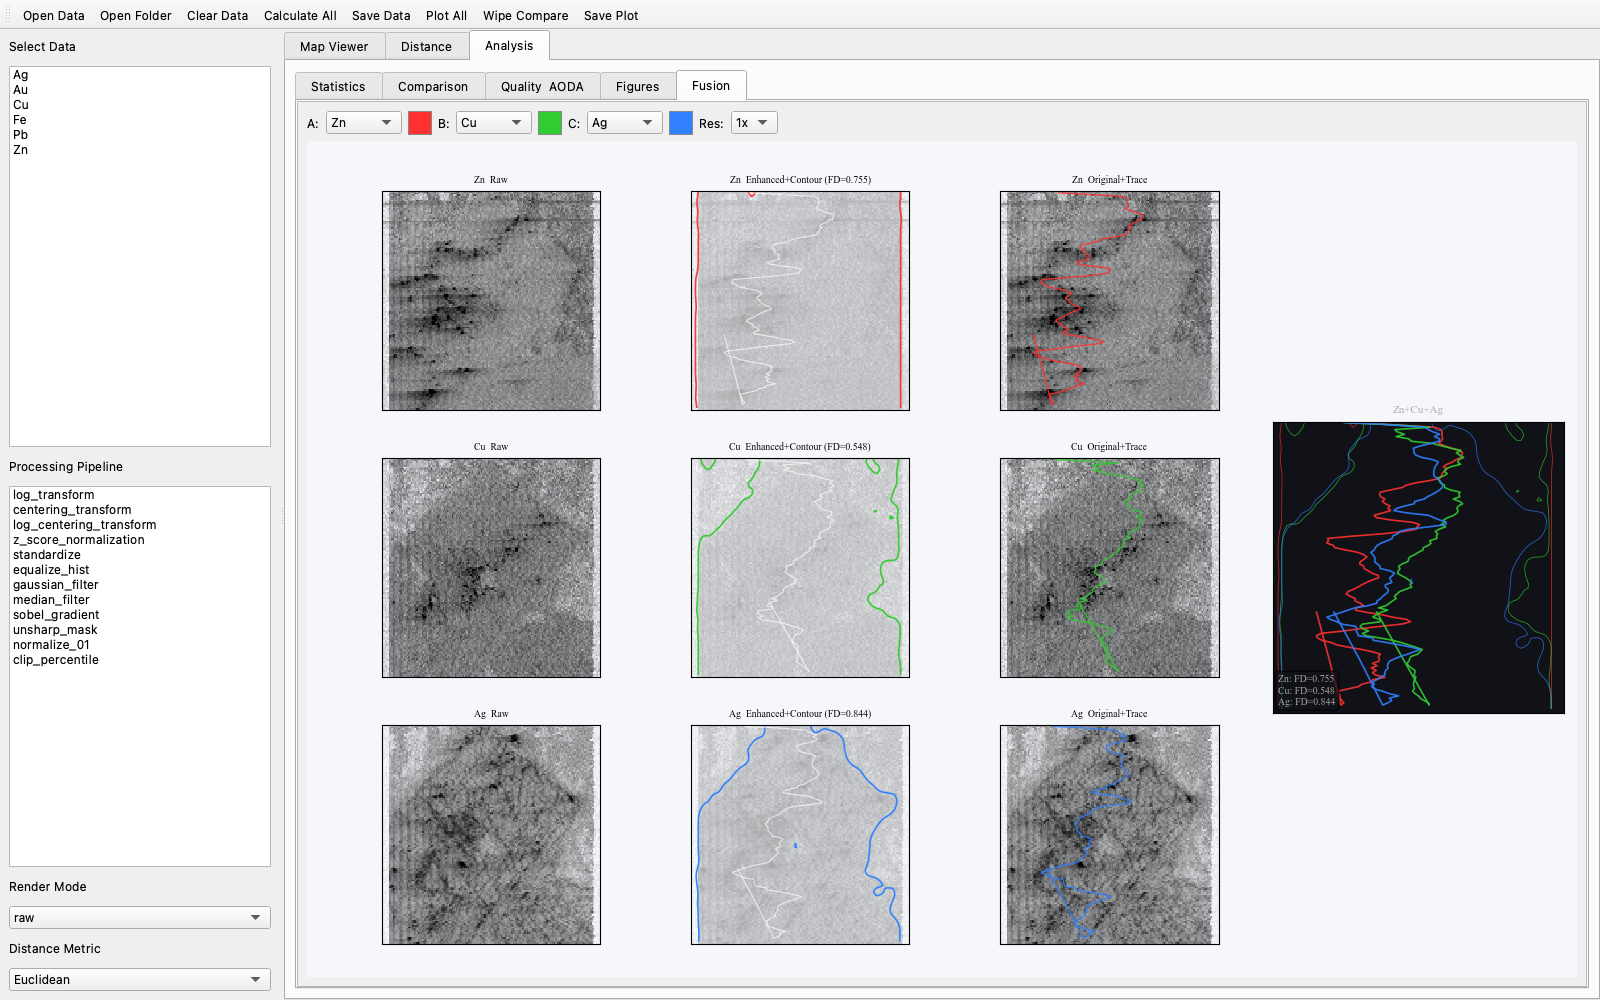
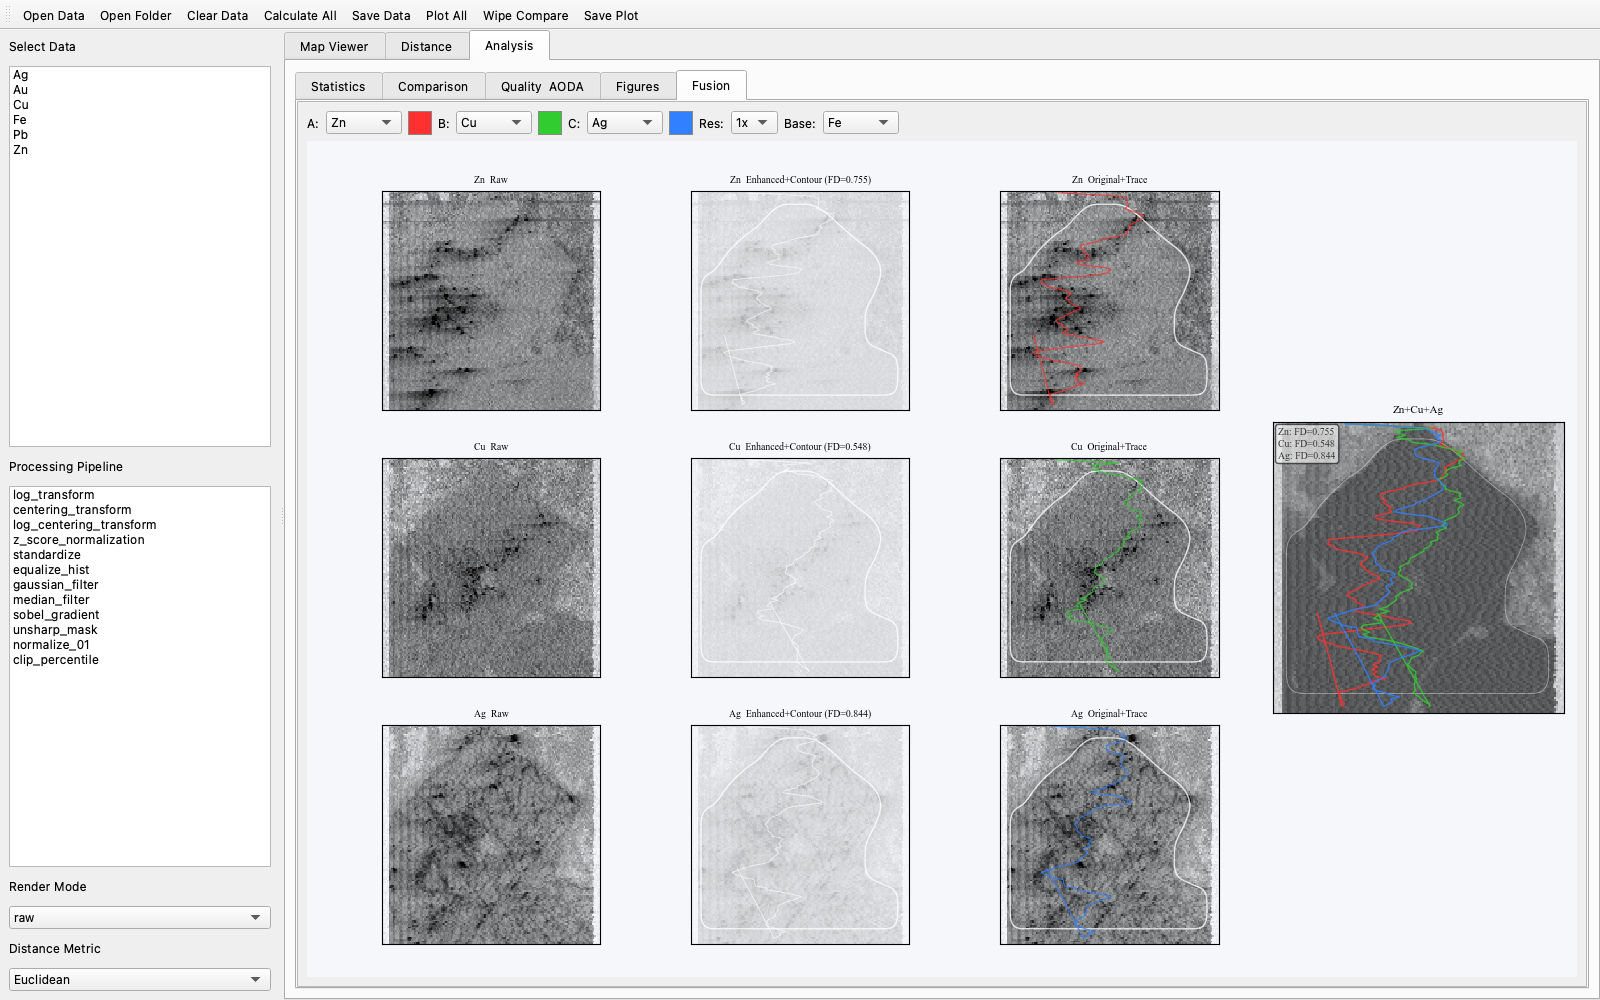
v1.7.2: Overlay uses base element (Fe) as bg + cleaner Fe contour via morphology
- Base dropdown picks overlay background (default Fe)
- Fe contour: heavy smoothing + morphological cleanup + largest component
- White Fe contour + colored traces on base element grayscale bg
- FD comparison label on light bg (readable)

diff --git a/cpsvisualizer/src/cpsvisualizer/app.py b/cpsvisualizer/src/cpsvisualizer/app.py
@@ -700,7 +700,12 @@ class CPSVisualizer(QMainWindow):
         bar.addWidget(QLabel('Res:'))
         self._fus_res=QComboBox(); self._fus_res.addItems(['1x','2x','4x'])
         self._fus_res.currentTextChanged.connect(self._on_fusion_change)
-        bar.addWidget(self._fus_res); bar.addStretch(1)
+        bar.addWidget(self._fus_res)
+        bar.addWidget(QLabel('Base:'))
+        self._fus_base = QComboBox()
+        self._fus_base.currentTextChanged.connect(self._on_fusion_change)
+        bar.addWidget(self._fus_base)
+        bar.addStretch(1)
         v.addLayout(bar)
         self._fus_canvas = FigureCanvas(Figure(figsize=(20,15), dpi=self.dpi))
         _install_figure_export(self._fus_canvas,'cps_fusion')
@@ -725,6 +730,13 @@ class CPSVisualizer(QMainWindow):
             p.blockSignals(False)
         if len(self.df_name_list)>=2 and not self._fus_picks[1].currentText():
             self._fus_picks[1].setCurrentIndex(1)
+        # fill base picker, default to Fe
+        cur_base = self._fus_base.currentText()
+        self._fus_base.blockSignals(True); self._fus_base.clear()
+        self._fus_base.addItems(self.df_name_list)
+        if cur_base in self.df_name_list: self._fus_base.setCurrentText(cur_base)
+        elif 'Fe' in self.df_name_list: self._fus_base.setCurrentText('Fe')
+        self._fus_base.blockSignals(False)
     def _render_fusion(self):
         from cpsvisualizer.core import log_transform
         from scipy.ndimage import sobel,gaussian_filter,zoom
@@ -734,6 +746,53 @@ class CPSVisualizer(QMainWindow):
         for btn in self._fus_color_btns:
             m=re.search(r'#[0-9a-fA-F]{6}',btn.styleSheet())
             self._fus_colors.append(m.group() if m else '#FF3030')
+        # Fe reference contour (clean pyrite crystal boundary)
+        self._fe_contours = []
+        if 'Fe' in self.df_name_list:
+            fe_data = self.df_list[self.df_name_list.index('Fe')].to_numpy().copy()
+            fe_raw = np.nan_to_num(fe_data.astype(float), nan=0, posinf=0, neginf=0)
+            from scipy.ndimage import gaussian_filter as gf
+            from scipy.ndimage import binary_fill_holes, binary_closing, binary_opening
+            from skimage.filters import threshold_otsu
+            from skimage.measure import find_contours, label
+            # heavy smoothing to remove internal texture, keep only boundary
+            fe_sm = gf(fe_raw, sigma=6.0)
+            ds = _downsample(fe_sm, 80, 80)
+            thresh = threshold_otsu(ds)
+            binary = (ds > thresh)
+            # morphological cleanup: close gaps, fill holes
+            binary = binary_closing(binary, structure=np.ones((5, 5)), iterations=2)
+            binary = binary_opening(binary, structure=np.ones((5, 5)), iterations=1)
+            binary = binary_fill_holes(binary)
+            # keep only the largest connected component
+            labeled = label(binary)
+            n = labeled.max()
+            if n > 0:
+                sizes = np.bincount(labeled.ravel())[1:]
+                largest = np.argmax(sizes) + 1
+                binary = (labeled == largest)
+            # smooth the binary once more before contouring
+            binary_f = gf(binary.astype(float), sigma=2.0)
+            scale_x = fe_raw.shape[1] / ds.shape[1]
+            scale_y = fe_raw.shape[0] / ds.shape[0]
+            for cnt in find_contours(binary_f, level=0.5):
+                cx = cnt[:, 1] * scale_x
+                cy = cnt[:, 0] * scale_y
+                self._fe_contours.append(np.column_stack([cx, cy]))
+            self._fe_shape = fe_raw.shape  # before zoom
+            if zf > 1:
+                for c in self._fe_contours:
+                    c[:, 0] *= zf; c[:, 1] *= zf
+                self._fe_shape = (fe_raw.shape[0] * zf, fe_raw.shape[1] * zf)
+        # base element for overlay background
+        base_nm = self._fus_base.currentText()
+        self._fus_base_raw = None
+        if base_nm and base_nm in self.df_name_list:
+            bd = self.df_list[self.df_name_list.index(base_nm)].to_numpy().copy()
+            base_raw = np.nan_to_num(bd.astype(float), nan=0, posinf=0, neginf=0)
+            if zf > 1:
+                base_raw = zoom(base_raw, zf, order=3)
+            self._fus_base_raw = base_raw
         self._fus_rows=[]
         for i in range(3):
             nm=self._fus_picks[i].currentText()
@@ -742,33 +801,15 @@ class CPSVisualizer(QMainWindow):
                 else: break
             data=self.df_list[self.df_name_list.index(nm)].to_numpy().copy()
             raw=np.nan_to_num(data.astype(float),nan=0,posinf=0,neginf=0)
-            # log-transform for contour extraction (better feature detection)
-            log_data=log_transform(raw)
-            from skimage.filters import threshold_otsu
-            from skimage.measure import find_contours
-            from scipy.ndimage import gaussian_filter as gf
-            ds=_downsample(log_data,80,80)
-            thresh=threshold_otsu(ds)
-            binary=(ds>thresh).astype(np.float64)
-            binary_sm=gf(binary,sigma=1.5)
-            contours_ds=find_contours(binary_sm,level=0.5)
-            contours_v=[]
-            V_shape=log_data.shape
-            for cnt in contours_ds:
-                cx=cnt[:,1]*(V_shape[1]/ds.shape[1])
-                cy=cnt[:,0]*(V_shape[0]/ds.shape[0])
-                contours_v.append(np.column_stack([cx,cy]))
             d2=gaussian_filter(raw,sigma=1.0)
             E=np.hypot(sobel(d2,axis=0),sobel(d2,axis=1))
             E=(E-E.min())/(E.max()-E.min()+1e-10)
             tx,ty,fd=self._compute_trajectory(data)
             if zf>1:
-                raw=zoom(raw,zf,order=3); log_data=zoom(log_data,zf,order=3)
-                E=zoom(E,zf,order=3)
-                for c in contours_v: c[:,0]*=zf; c[:,1]*=zf
+                raw=zoom(raw,zf,order=3); E=zoom(E,zf,order=3)
                 tx*=zf; ty*=zf
-            self._fus_rows.append({'name':nm,'raw':raw,'log':log_data,'V_shape':V_shape,
-                'E':E,'tx':tx,'ty':ty,'fd':fd,'contours_v':contours_v})
+            self._fus_rows.append({'name':nm,'raw':raw,'E':E,
+                'tx':tx,'ty':ty,'fd':fd})
         self._render_fusion_display()
     def _compute_trajectory(self,data):
         d=np.nan_to_num(np.asarray(data,dtype=float),nan=0.0,posinf=0.0,neginf=0.0)
@@ -810,57 +851,78 @@ class CPSVisualizer(QMainWindow):
             for col_j in range(3):
                 ax=fig.add_subplot(gs[row_i,col_j]); ax.set_facecolor(FIG_BG)
                 if col_j==0:
-                    # Raw: standard display_scale
                     s,lo,hi=display_scale(r['raw'],1,99)
                     arr_disp=_downsample(s,180,180)
                     ax.imshow(arr_disp,cmap=ink_colormap(),vmin=lo,vmax=hi,
                               aspect='auto',interpolation='nearest')
                 elif col_j==1:
-                    # Enhanced+Contour: subdued bg + bold colored contours
-                    s,lo,hi=display_scale(r['log'],0,100)
+                    # subdued bg + Fe crystal contour + element trace
+                    s,lo,hi=display_scale(r['raw'],0,100)
                     arr_disp=_downsample(s,180,180)
                     ax.imshow(arr_disp,cmap=ink_colormap(),vmin=lo,vmax=hi,
                               aspect='auto',interpolation='nearest',alpha=0.35)
-                    sx=arr_disp.shape[1]/r['V_shape'][1]
-                    sy=arr_disp.shape[0]/r['V_shape'][0]
-                    for cnt in r['contours_v']:
-                        ax.plot(cnt[:,0]*sx,cnt[:,1]*sy,color=col,linewidth=1.2,alpha=0.95)
+                    self._draw_fe_contour(ax,arr_disp)
                     if len(r['tx'])>2:
-                        ax.plot(r['tx']*sx,r['ty']*sy,color='#FFFFFF',linewidth=0.8,alpha=0.7)
+                        sx=arr_disp.shape[1]/r['raw'].shape[1]
+                        sy=arr_disp.shape[0]/r['raw'].shape[0]
+                        ax.plot(r['tx']*sx,r['ty']*sy,color='#FFFFFF',linewidth=0.7,alpha=0.65)
                 else:
-                    # Original+Trace: standard data + bold colored trace
+                    # full data + Fe contour + element trace
                     s,lo,hi=display_scale(r['raw'],1,99)
                     arr_disp=_downsample(s,180,180)
                     ax.imshow(arr_disp,cmap=ink_colormap(),vmin=lo,vmax=hi,
                               aspect='auto',interpolation='nearest')
+                    self._draw_fe_contour(ax,arr_disp)
                     if len(r['tx'])>2:
-                        sx=arr_disp.shape[1]/r['V_shape'][1]
-                        sy=arr_disp.shape[0]/r['V_shape'][0]
-                        ax.plot(r['tx']*sx,r['ty']*sy,color=col,linewidth=1.0,alpha=0.85)
+                        sx=arr_disp.shape[1]/r['raw'].shape[1]
+                        sy=arr_disp.shape[0]/r['raw'].shape[0]
+                        ax.plot(r['tx']*sx,r['ty']*sy,color=col,linewidth=0.8,alpha=0.8)
                 ax.set_aspect(_square_aspect(*arr_disp.shape),adjustable='box',anchor='C')
                 ttl=f'{r["name"]}  {cols[col_j]}'
                 if col_j==1 and r['fd']: ttl+=f' (FD={r["fd"]:.3f})'
                 ax.set_title(ttl,fontsize=7); ax.set_xticks([]); ax.set_yticks([])
-        # Overlay
-        ax_ov=fig.add_subplot(gs[:,3]); ax_ov.set_facecolor('#111118')
-        max_h=max(r['V_shape'][0] for r in self._fus_rows)
-        max_w=max(r['V_shape'][1] for r in self._fus_rows)
-        ax_ov.set_xlim(0,max_w); ax_ov.set_ylim(max_h,0)
-        for row_i,r in enumerate(self._fus_rows):
-            col=self._fus_colors[row_i]
-            for cnt in r['contours_v']:
-                ax_ov.plot(cnt[:,0],cnt[:,1],color=col,linewidth=0.6,alpha=0.7)
-            if len(r['tx'])>2:
-                ax_ov.plot(r['tx'],r['ty'],color=col,linewidth=1.2,alpha=0.9)
-        ax_ov.set_aspect(_square_aspect(max_h,max_w),adjustable='box',anchor='C')
-        fd_lines=[f'{r["name"]}: FD={r["fd"]:.3f}' for r in self._fus_rows]
-        ax_ov.text(0.02,0.02,'\n'.join(fd_lines),transform=ax_ov.transAxes,
-                   fontsize=7,color='#AAAAAA',va='bottom',ha='left',
-                   bbox=dict(boxstyle='round,pad=0.3',facecolor='#111118',alpha=0.7))
+        # Overlay: base element data as background + colored traces on top
+        ax_ov=fig.add_subplot(gs[:,3]); ax_ov.set_facecolor(FIG_BG)
+        if self._fus_base_raw is not None:
+            s, lo, hi = display_scale(self._fus_base_raw, 1, 99)
+            arr_ov = _downsample(s, 180, 180)
+            ax_ov.imshow(arr_ov, cmap=ink_colormap(), vmin=lo, vmax=hi,
+                         aspect='auto', interpolation='nearest', alpha=0.8)
+            max_h = arr_ov.shape[0]; max_w = arr_ov.shape[1]
+            sx_ov = arr_ov.shape[1] / self._fus_base_raw.shape[1]
+            sy_ov = arr_ov.shape[0] / self._fus_base_raw.shape[0]
+        else:
+            max_h = max(r['raw'].shape[0] for r in self._fus_rows)
+            max_w = max(r['raw'].shape[1] for r in self._fus_rows)
+            sx_ov = sy_ov = 1.0
+        # Fe crystal boundary
+        if self._fe_contours:
+            for cnt in self._fe_contours:
+                ax_ov.plot(cnt[:,0]*sx_ov, cnt[:,1]*sy_ov,
+                           color='#FFFFFF', linewidth=0.6, alpha=0.45)
+        # element traces
+        for row_i, r in enumerate(self._fus_rows):
+            col = self._fus_colors[row_i]
+            if len(r['tx']) > 2:
+                ax_ov.plot(r['tx']*sx_ov, r['ty']*sy_ov,
+                           color=col, linewidth=1.0, alpha=0.85)
+        ax_ov.set_aspect(_square_aspect(max_h, max_w),
+                         adjustable='box', anchor='C')
+        fd_lines = [f'{r["name"]}: FD={r["fd"]:.3f}' for r in self._fus_rows]
+        ax_ov.text(0.02, 0.98, '\n'.join(fd_lines), transform=ax_ov.transAxes,
+                   fontsize=7, color='#333333', va='top', ha='left',
+                   bbox=dict(boxstyle='round,pad=0.3', facecolor='#FFFFFF', alpha=0.6))
         ax_ov.set_xticks([]); ax_ov.set_yticks([])
-        names=[r['name'] for r in self._fus_rows]
-        ax_ov.set_title('+'.join(names),fontsize=8,color='#AAAAAA')
+        names = [r['name'] for r in self._fus_rows]
+        ax_ov.set_title('+'.join(names), fontsize=8)
         self._fus_canvas.draw()
+    def _draw_fe_contour(self, ax, arr_disp):
+        if not self._fe_contours: return
+        sx=arr_disp.shape[1]/self._fe_shape[1]
+        sy=arr_disp.shape[0]/self._fe_shape[0]
+        for cnt in self._fe_contours:
+            ax.plot(cnt[:,0]*sx,cnt[:,1]*sy,color='#FFFFFF',
+                    linewidth=1.0,alpha=0.8)
         self._fus_canvas.draw()
     def _selected_data_indices(self):
         return [self.df_name_list.index(it.text())

diff --git a/cpsvisualizer/src/setup.py b/cpsvisualizer/src/setup.py
@@ -15,7 +15,7 @@ except Exception:
 
 setup(
     name='cpsvisualizer',
-    version='1.7.1',
+    version='1.7.2',
     description='CPS-Visualizer: Visualization, similarity measurement, and statistical analysis of LA-ICP-MS surface scan data.',
     long_description=README,
     long_description_content_type='text/markdown',
